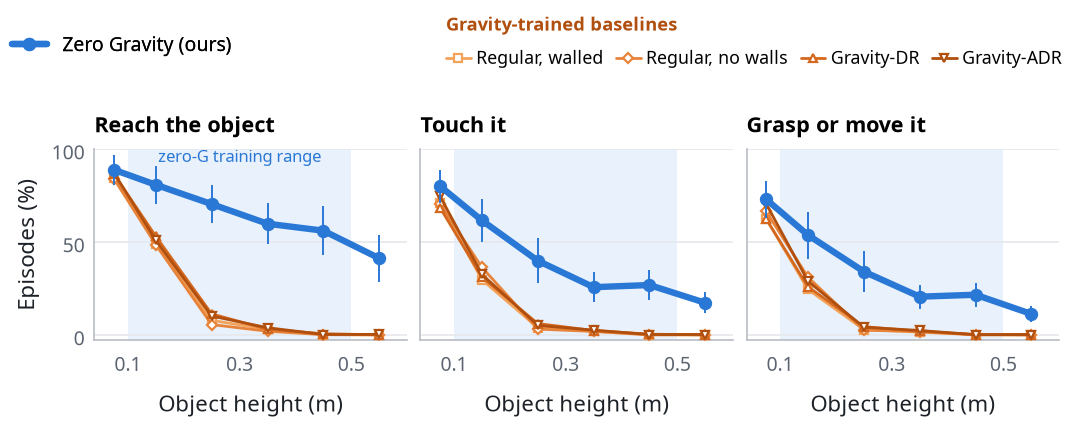
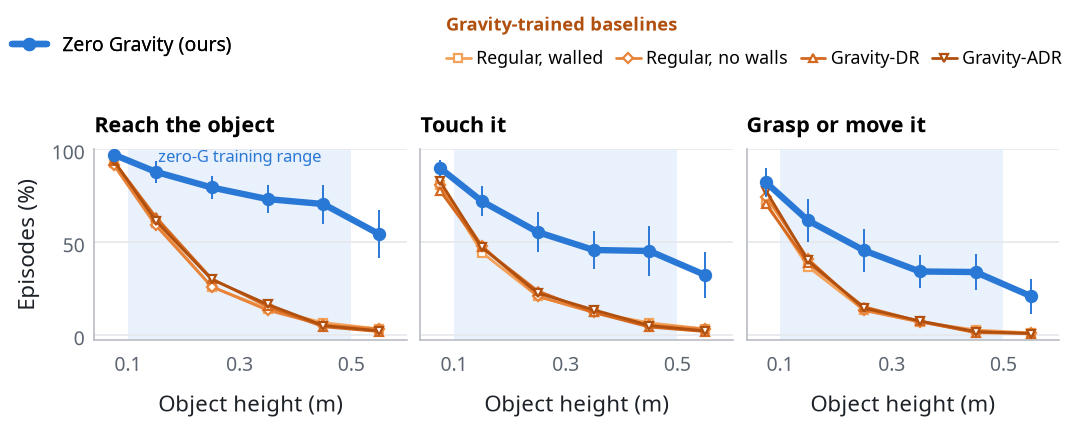
Corrected stage detectors: updated figures and abstract numbers
Claude-Session: https://claude.ai/code/session_01UjkjnsmNTetpR5MXkkNTSc

Changed region(s): [[0.0924, 0.3389, 0.3694, 0.8009], [0.4002, 0.3697, 0.6772, 0.8009], [0.708, 0.4005, 0.9851, 0.8009]]

diff --git a/index.html b/index.html
@@ -66,7 +66,7 @@
 <!-- ================= HEADLINE ================= -->
 <section id="headline" style="padding-top:20px"><div class="container">
   <figure class="fig">
-    <img src="static/images/fig_fig1_stages.png" alt="Three line charts: the share of episodes that reach, touch, and grasp or move the object, against the object's height. The zero-gravity line declines gradually; four gravity-trained baselines collapse above about 0.20 m." loading="lazy">
+    <img src="static/images/fig_fig1_stages.png?v=20261022b" alt="Three line charts: the share of episodes that reach, touch, and grasp or move the object, against the object's height. The zero-gravity line declines gradually; four gravity-trained baselines collapse above about 0.20 m." loading="lazy">
     <figcaption>
       <b>Gravity-trained policies stop at the table; zero-gravity training reaches up.</b> Zero-shot performance on
       spatially harder variants of six tasks, where the object rests on a support at a height drawn uniformly over the
@@ -92,9 +92,9 @@
     hacking we observe in pure zero gravity. Compared with experts trained under regular or randomized gravity at the same
     cost, the zero-gravity experts produce the most varied gripper paths on all six tasks we test. To evaluate spatial
     generalization we design spatially harder variants of the tabletop tasks, in which the object rests on a support at a
-    random height: there the zero-gravity experts reach the object in 68% of episodes at heights inside their training
-    range against 17&ndash;20% for the baselines, and in 41% above every arm's training range, where the baselines almost
-    never do. Fine-tuned on these variants, they also adapt faster.
+    random height: there the zero-gravity experts reach the object in 79% of episodes at heights inside their training
+    range against 30&ndash;33% for the baselines, and in 54% above every arm's training range, where the baselines rarely
+    do (at most 3%). Fine-tuned on these variants, they also adapt faster.
   </p>
   <figure class="fig" style="max-width:640px;margin:18px auto 0">
     <img src="static/images/fig_diversity_axes.png" alt="Diagram: task-setup and task-scale diversity span a plane under Earth physics; domain randomization moves a short way up a physics axis; zero gravity moves far along it." loading="lazy">
@@ -168,7 +168,7 @@
 
   <h3>They reach and handle raised objects, zero-shot</h3>
   <figure class="fig">
-    <img src="static/images/fig_stages_by_task.png" alt="Per-task staged curves for six tasks." loading="lazy">
+    <img src="static/images/fig_stages_by_task.png?v=20261022b" alt="Per-task staged curves for six tasks." loading="lazy">
     <figcaption><b>Zero-shot staged performance per task</b> (all heights). Ahead at the reach and touch stages on five of
       six tasks; on RollBall the policies are close. Zero-shot task success is low for every policy (9.8% for zero gravity vs. 3.6&ndash;4.8% for the
       baselines, mean over tasks), because the variants add a step no expert was trained for (bringing the object off its
